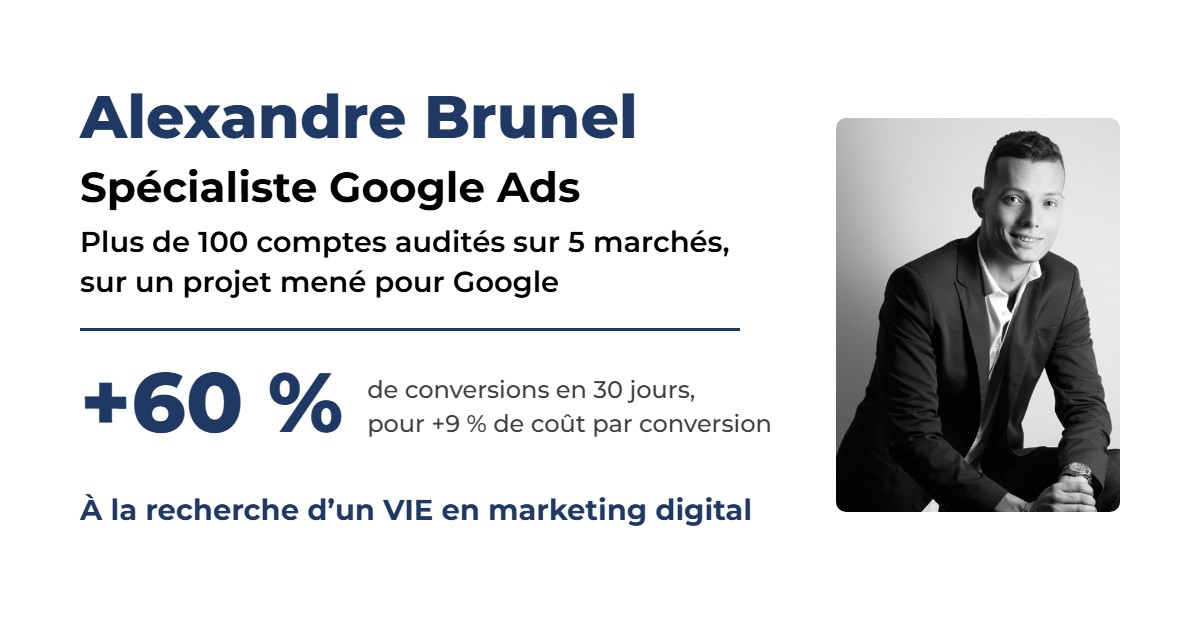
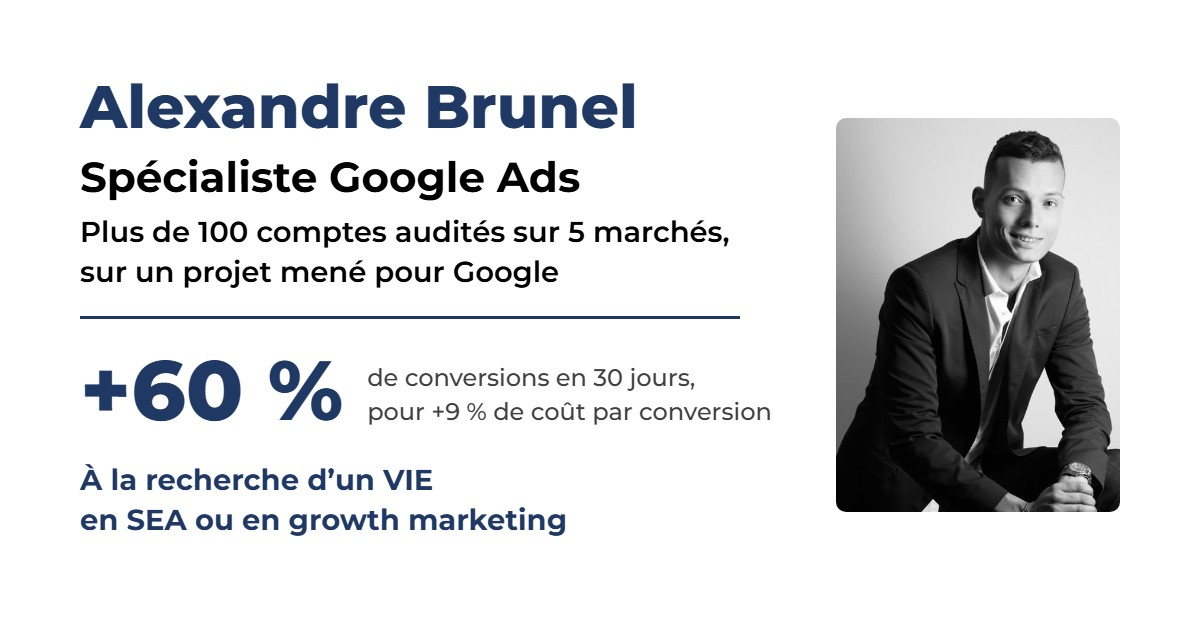
French positioning: SEA and growth marketing; fit full-size view to phone screens
- French title, target sentence, contact line, share card and CV now say "SEA ou growth marketing"
- Full-size view fits the screen width on phones; reopening it right after closing no longer shows an empty view
- Versioned stylesheet and scripts so returning visitors get the new files

Changed region(s): [[0.0617, 0.1206, 0.6167, 0.5429], [0.0617, 0.573, 0.6475, 0.6937], [0.0617, 0.7238, 0.6475, 0.8444]]

diff --git a/index.html b/index.html
@@ -3,7 +3,7 @@
 <head>
   <meta charset="utf-8">
   <meta name="viewport" content="width=device-width, initial-scale=1">
-  <title data-fr="Alexandre Brunel | Google Ads et génération de leads B2B">Alexandre Brunel | Google Ads &amp; B2B Lead Generation</title>
+  <title data-fr="Alexandre Brunel | Spécialiste Google Ads et growth marketing">Alexandre Brunel | Google Ads &amp; B2B Lead Generation</title>
   <meta name="description" content="Google Ads specialist: 100+ advertiser accounts audited in 5 markets on a project run for Google, most of them B2B or lead generation. Looking for a VIE mission." data-fr-content="Spécialiste Google Ads : plus de 100 comptes audités sur 5 marchés, sur un projet mené pour Google, la plupart en B2B ou en génération de leads. Recherche un VIE.">
   <meta name="color-scheme" content="light">
   <meta name="theme-color" content="#ffffff">
@@ -17,19 +17,19 @@
   <meta property="og:locale" content="en_GB" data-fr-content="fr_FR">
   <meta property="og:locale:alternate" content="fr_FR" data-fr-content="en_GB">
   <meta property="og:title" content="Alexandre Brunel | Google Ads specialist looking for a VIE mission" data-fr-content="Alexandre Brunel | Spécialiste Google Ads à la recherche d’un VIE">
-  <meta property="og:description" content="100+ advertiser accounts audited in 5 markets on a project run for Google. +60% conversions in 30 days at +9% cost per conversion. Looking for a VIE mission in paid search." data-fr-content="Plus de 100 comptes d’annonceurs audités sur 5 marchés, sur un projet mené pour Google. +60 % de conversions en 30 jours pour +9 % de coût par conversion. Recherche un VIE en marketing digital.">
+  <meta property="og:description" content="100+ advertiser accounts audited in 5 markets on a project run for Google. +60% conversions in 30 days at +9% cost per conversion. Looking for a VIE mission in paid search." data-fr-content="Plus de 100 comptes d’annonceurs audités sur 5 marchés, sur un projet mené pour Google. +60 % de conversions en 30 jours pour +9 % de coût par conversion. Recherche un VIE en SEA ou en growth marketing.">
   <meta property="og:url" content="https://alexandrebrunel.net/" data-fr-content="https://alexandrebrunel.net/fr/">
   <meta property="og:image" content="https://alexandrebrunel.net/images/og-image.jpg" data-fr-content="https://alexandrebrunel.net/images/og-image-fr.jpg">
   <meta property="og:image:width" content="1200">
   <meta property="og:image:height" content="630">
-  <meta property="og:image:alt" content="Alexandre Brunel, Google Ads specialist: 100+ accounts audited in 5 markets. Looking for a VIE mission in paid search." data-fr-content="Alexandre Brunel, spécialiste Google Ads : plus de 100 comptes audités sur 5 marchés. À la recherche d’un VIE en marketing digital.">
+  <meta property="og:image:alt" content="Alexandre Brunel, Google Ads specialist: 100+ accounts audited in 5 markets. Looking for a VIE mission in paid search." data-fr-content="Alexandre Brunel, spécialiste Google Ads : plus de 100 comptes audités sur 5 marchés. À la recherche d’un VIE en SEA ou en growth marketing.">
   <meta name="twitter:card" content="summary_large_image">
 
   <link rel="icon" href="favicon.ico" sizes="48x48">
   <link rel="icon" href="images/favicon.png" type="image/png">
   <link rel="apple-touch-icon" href="images/apple-touch-icon.png">
   <link rel="preload" href="fonts/montserrat-latin-wght-normal.woff2" as="font" type="font/woff2" crossorigin>
-  <link rel="stylesheet" href="css/style.css">
+  <link rel="stylesheet" href="css/style.css?v=20261117">
   <script>
     (function (d) {
       d.classList.add('js');
@@ -50,9 +50,9 @@
       } catch (e) {}
     })(document.documentElement);
   </script>
-  <script src="js/lang.js" defer></script>
-  <script src="js/main.js" defer></script>
-  <script src="js/analytics.js" data-gtm-id="" defer></script>
+  <script src="js/lang.js?v=20261117" defer></script>
+  <script src="js/main.js?v=20261117" defer></script>
+  <script src="js/analytics.js?v=20261117" data-gtm-id="" defer></script>
   <script type="application/ld+json">
   {
     "@context": "https://schema.org",
@@ -94,7 +94,7 @@
         <img class="hero__portrait" src="images/portrait.jpg" width="533" height="666" alt="Portrait of Alexandre Brunel" data-fr-alt="Portrait d’Alexandre Brunel" fetchpriority="high">
         <h1 class="hero__name" id="hero-title">Alexandre Brunel</h1>
         <p class="hero__headline" data-fr="Spécialiste Google Ads : plus de 100 comptes audités sur 5&nbsp;marchés, sur un projet mené pour Google">Google Ads specialist: 100+ accounts audited in 5&nbsp;markets, on a project run for Google</p>
-        <p class="hero__target"><strong data-fr="Je recherche un VIE en marketing digital, idéalement dans la tech B2B.">Looking for a VIE mission in paid search or performance marketing, ideally in B2B tech.</strong> <span class="hero__gloss" data-fr="">VIE is France’s international work-placement programme: 6 to 24 months abroad for a French company.</span></p>
+        <p class="hero__target"><strong data-fr="Je recherche un VIE en SEA ou en growth marketing, idéalement dans la tech B2B.">Looking for a VIE mission in paid search or performance marketing, ideally in B2B tech.</strong> <span class="hero__gloss" data-fr="">VIE is France’s international work-placement programme: 6 to 24 months abroad for a French company.</span></p>
         <ul class="hero__facts" aria-label="Key facts" data-fr-aria-label="En bref">
           <li data-fr="Disponible immédiatement">Available now</li>
           <li data-fr="Éligible au VIE, citoyen européen">VIE-eligible, EU citizen</li>
@@ -561,7 +561,7 @@
         <div class="section__head">
           <h2 class="section__title" id="contact-title">Contact</h2>
         </div>
-        <p class="contact__lead" data-fr="Vous recrutez en marketing digital&nbsp;? Écrivez-moi, je réponds sous 24&nbsp;heures.">Hiring for paid search or performance marketing? Email me and I’ll reply within a day.</p>
+        <p class="contact__lead" data-fr="Vous recrutez en SEA ou en growth marketing&nbsp;? Écrivez-moi, je réponds sous 24&nbsp;heures.">Hiring for paid search or performance marketing? Email me and I’ll reply within a day.</p>
         <div class="contact__actions">
           <a class="btn btn--solid" href="mailto:contact@alexandrebrunel.net" data-fr="M’écrire">Email me</a>
           <button class="btn btn--outline" type="button" data-copy="contact@alexandrebrunel.net" data-fr="Copier l’adresse e-mail">Copy email address</button>

diff --git a/fr/index.html b/fr/index.html
@@ -3,7 +3,7 @@
 <head>
   <meta charset="utf-8">
   <meta name="viewport" content="width=device-width, initial-scale=1">
-  <title>Alexandre Brunel | Google Ads et génération de leads B2B</title>
+  <title>Alexandre Brunel | Spécialiste Google Ads et growth marketing</title>
   <meta name="description" content="Spécialiste Google Ads : plus de 100 comptes audités sur 5 marchés, sur un projet mené pour Google, la plupart en B2B ou en génération de leads. Recherche un VIE.">
   <meta name="color-scheme" content="light">
   <meta name="theme-color" content="#ffffff">
@@ -17,19 +17,19 @@
   <meta property="og:locale" content="fr_FR">
   <meta property="og:locale:alternate" content="en_GB">
   <meta property="og:title" content="Alexandre Brunel | Spécialiste Google Ads à la recherche d’un VIE">
-  <meta property="og:description" content="Plus de 100 comptes d’annonceurs audités sur 5 marchés, sur un projet mené pour Google. +60 % de conversions en 30 jours pour +9 % de coût par conversion. Recherche un VIE en marketing digital.">
+  <meta property="og:description" content="Plus de 100 comptes d’annonceurs audités sur 5 marchés, sur un projet mené pour Google. +60 % de conversions en 30 jours pour +9 % de coût par conversion. Recherche un VIE en SEA ou en growth marketing.">
   <meta property="og:url" content="https://alexandrebrunel.net/fr/">
   <meta property="og:image" content="https://alexandrebrunel.net/images/og-image-fr.jpg">
   <meta property="og:image:width" content="1200">
   <meta property="og:image:height" content="630">
-  <meta property="og:image:alt" content="Alexandre Brunel, spécialiste Google Ads : plus de 100 comptes audités sur 5 marchés. À la recherche d’un VIE en marketing digital.">
+  <meta property="og:image:alt" content="Alexandre Brunel, spécialiste Google Ads : plus de 100 comptes audités sur 5 marchés. À la recherche d’un VIE en SEA ou en growth marketing.">
   <meta name="twitter:card" content="summary_large_image">
 
   <link rel="icon" href="../favicon.ico" sizes="48x48">
   <link rel="icon" href="../images/favicon.png" type="image/png">
   <link rel="apple-touch-icon" href="../images/apple-touch-icon.png">
   <link rel="preload" href="../fonts/montserrat-latin-wght-normal.woff2" as="font" type="font/woff2" crossorigin>
-  <link rel="stylesheet" href="../css/style.css">
+  <link rel="stylesheet" href="../css/style.css?v=20261117">
   <script>
     (function (d) {
       d.classList.add('js');
@@ -50,9 +50,9 @@
       } catch (e) {}
     })(document.documentElement);
   </script>
-  <script src="../js/lang.js" defer></script>
-  <script src="../js/main.js" defer></script>
-  <script src="../js/analytics.js" data-gtm-id="" defer></script>
+  <script src="../js/lang.js?v=20261117" defer></script>
+  <script src="../js/main.js?v=20261117" defer></script>
+  <script src="../js/analytics.js?v=20261117" data-gtm-id="" defer></script>
   <script type="application/ld+json">
   {
     "@context": "https://schema.org",
@@ -94,7 +94,7 @@
         <img class="hero__portrait" src="../images/portrait.jpg" width="533" height="666" alt="Portrait d’Alexandre Brunel" fetchpriority="high">
         <h1 class="hero__name" id="hero-title">Alexandre Brunel</h1>
         <p class="hero__headline">Spécialiste Google Ads : plus de 100 comptes audités sur 5&nbsp;marchés, sur un projet mené pour Google</p>
-        <p class="hero__target"><strong>Je recherche un VIE en marketing digital, idéalement dans la tech B2B.</strong> <span class="hero__gloss"></span></p>
+        <p class="hero__target"><strong>Je recherche un VIE en SEA ou en growth marketing, idéalement dans la tech B2B.</strong> <span class="hero__gloss"></span></p>
         <ul class="hero__facts" aria-label="En bref">
           <li>Disponible immédiatement</li>
           <li>Éligible au VIE, citoyen européen</li>
@@ -561,7 +561,7 @@
         <div class="section__head">
           <h2 class="section__title" id="contact-title">Contact</h2>
         </div>
-        <p class="contact__lead">Vous recrutez en marketing digital&nbsp;? Écrivez-moi, je réponds sous 24&nbsp;heures.</p>
+        <p class="contact__lead">Vous recrutez en SEA ou en growth marketing&nbsp;? Écrivez-moi, je réponds sous 24&nbsp;heures.</p>
         <div class="contact__actions">
           <a class="btn btn--solid" href="mailto:contact@alexandrebrunel.net">M’écrire</a>
           <button class="btn btn--outline" type="button" data-copy="contact@alexandrebrunel.net">Copier l’adresse e-mail</button>

diff --git a/css/style.css b/css/style.css
@@ -982,6 +982,8 @@ button { font: inherit; color: inherit; }
 }
 
 .lightbox {
+  position: fixed;
+  inset: 0;
   width: 100%;
   height: 100%;
   max-width: none;
@@ -995,6 +997,7 @@ button { font: inherit; color: inherit; }
 .lightbox::backdrop { background: rgba(255, 255, 255, 0.98); }
 .lightbox[open] {
   display: grid;
+  grid-template-columns: minmax(0, 1fr);
   grid-template-rows: auto minmax(0, 1fr) auto;
 }
 .lightbox__bar {
@@ -1016,16 +1019,22 @@ button { font: inherit; color: inherit; }
 }
 .lightbox__stage {
   display: grid;
-  place-items: center;
+  grid-template-columns: minmax(0, 1fr);
+  justify-items: center;
+  align-content: safe center;
+  min-width: 0;
   overflow: auto;
   overscroll-behavior: contain;
   padding: 24px clamp(12px, 3vw, 28px);
 }
 .lightbox__stage .shot {
   width: min(100%, var(--natural, 1180px));
+  max-width: 100%;
+  min-width: 0;
   box-shadow: 0 0 0 1px var(--line), 0 12px 40px rgba(31, 56, 100, 0.14);
 }
 .lightbox__stage .shot--slide { width: min(100%, 1500px); }
+.lightbox__stage img { width: 100%; max-width: 100%; height: auto; }
 .lightbox__hint { display: none; margin: 0; padding: 0 16px 16px; color: var(--ink-2); font-size: 0.875rem; text-align: center; }
 @media (max-width: 899px) {
   .lightbox__stage { padding-block: 16px; }

diff --git a/legal.html b/legal.html
@@ -11,7 +11,7 @@
   <link rel="canonical" href="https://alexandrebrunel.net/legal.html">
   <link rel="icon" href="images/favicon.png" type="image/png">
   <link rel="preload" href="fonts/montserrat-latin-wght-normal.woff2" as="font" type="font/woff2" crossorigin>
-  <link rel="stylesheet" href="css/style.css">
+  <link rel="stylesheet" href="css/style.css?v=20261117">
   <script>
     (function (d) {
       d.classList.add('js');
@@ -28,8 +28,8 @@
       }
     })(document.documentElement);
   </script>
-  <script src="js/lang.js" defer></script>
-  <script src="js/analytics.js" data-gtm-id="" defer></script>
+  <script src="js/lang.js?v=20261117" defer></script>
+  <script src="js/analytics.js?v=20261117" data-gtm-id="" defer></script>
 </head>
 <body>
   <a class="skip" href="#content" data-fr="Aller au contenu">Skip to the content</a>

diff --git a/404.html b/404.html
@@ -9,7 +9,7 @@
   <meta name="theme-color" content="#ffffff">
   <link rel="icon" href="/images/favicon.png" type="image/png">
   <link rel="preload" href="/fonts/montserrat-latin-wght-normal.woff2" as="font" type="font/woff2" crossorigin>
-  <link rel="stylesheet" href="/css/style.css">
+  <link rel="stylesheet" href="/css/style.css?v=20261117">
   <script>
     (function (d) {
       d.classList.add('js');
@@ -26,7 +26,7 @@
       }
     })(document.documentElement);
   </script>
-  <script src="/js/lang.js" defer></script>
+  <script src="/js/lang.js?v=20261117" defer></script>
 </head>
 <body>
   <header class="topbar">

diff --git a/js/main.js b/js/main.js
@@ -93,6 +93,7 @@
       if (e.target === dialog || e.target === stage) dialog.close();
     });
     dialog.addEventListener('close', () => {
+      if (dialog.open) return;
       root.classList.remove('is-locked');
       root.classList.remove('is-pointing');
       stage.replaceChildren();
